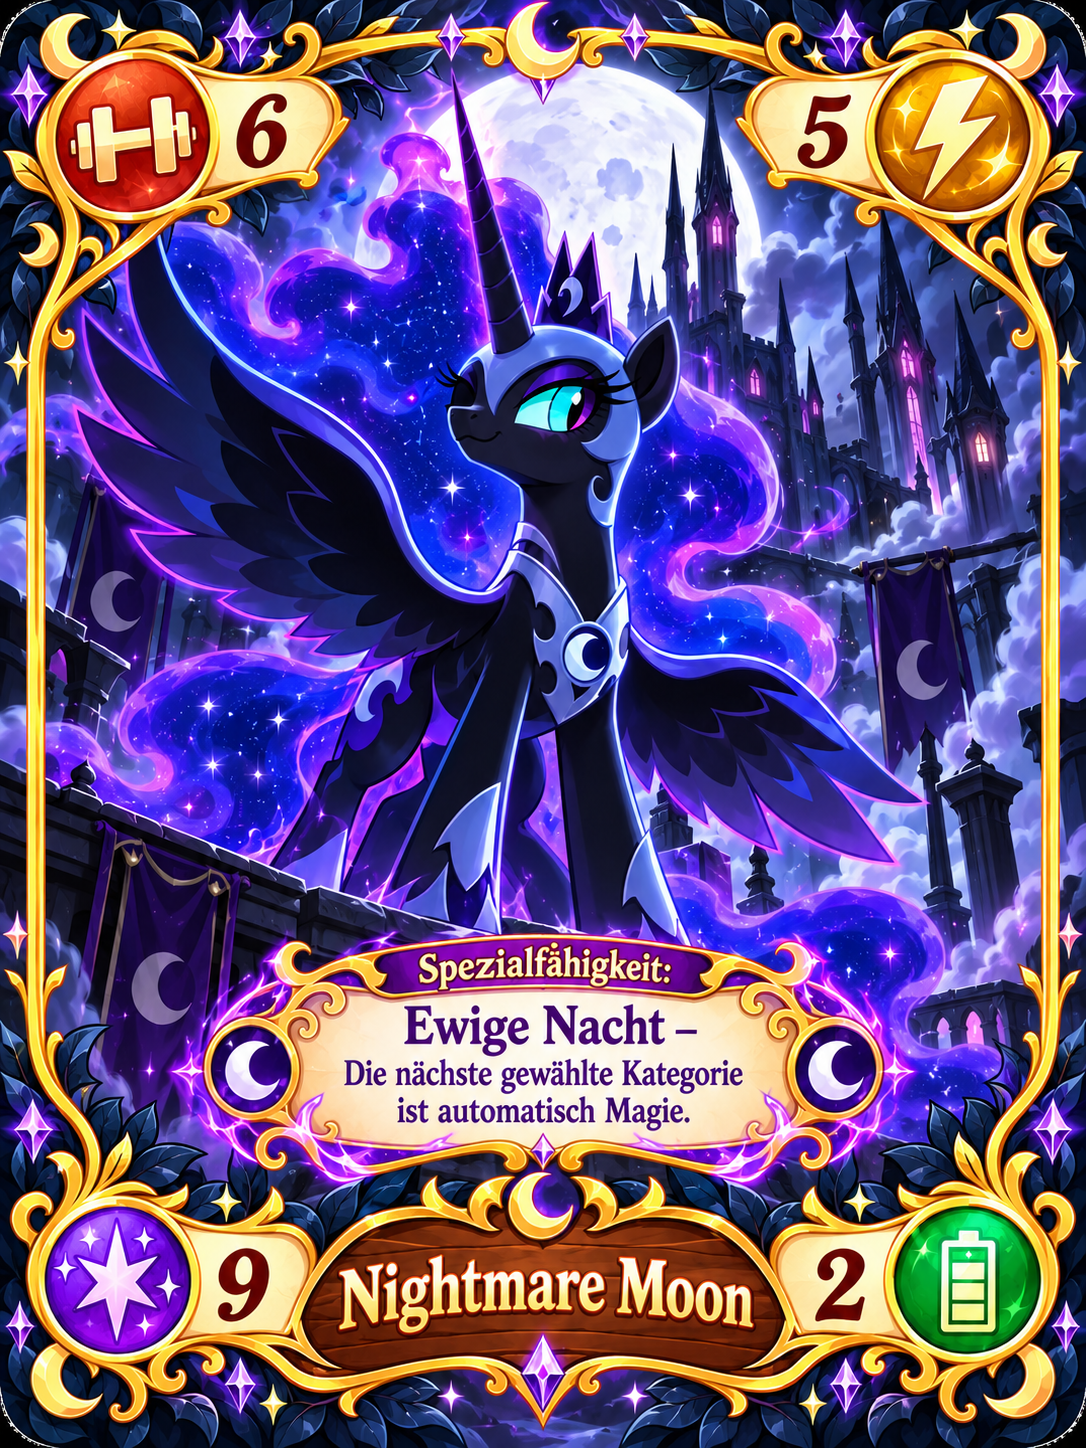
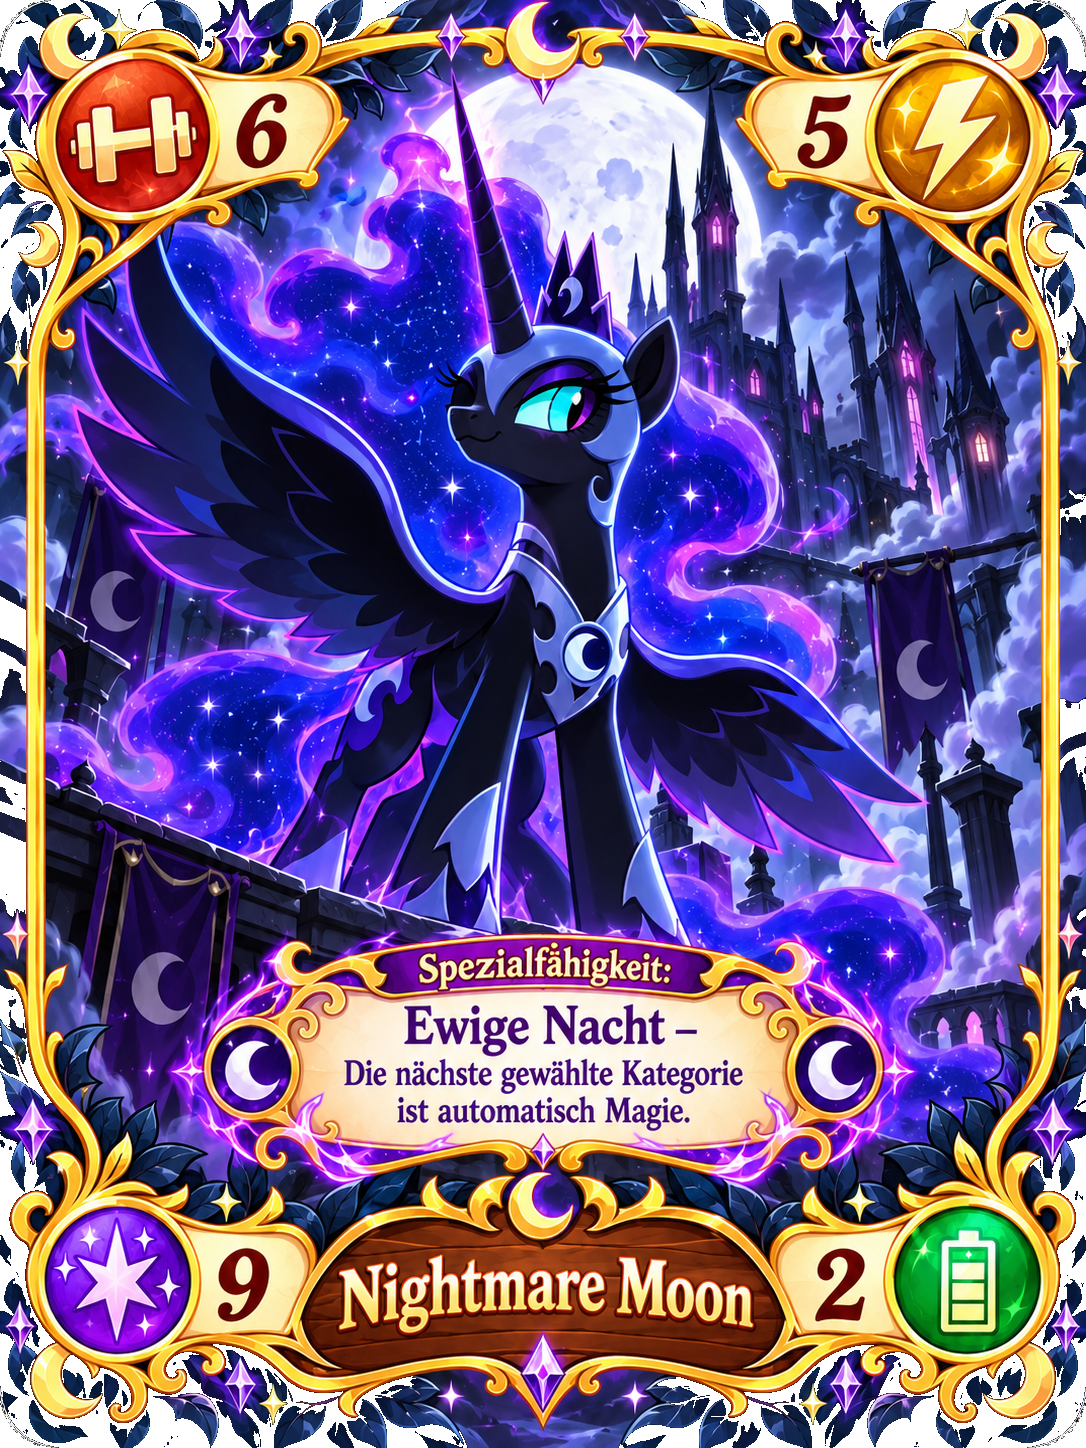
Add files via upload

diff --git a/public/index.html b/public/index.html
@@ -209,7 +209,7 @@
           <div class="tutorial-picture tutorial-decks-picture">
             <div class="tutorial-deck-card normal"><img src="/assets/card_back.webp" alt="Normaler Kartenstapel"><strong>Normaler Stapel</strong><small>Charakterkarten · automatische Auffüllung</small></div>
             <span class="tutorial-deck-plus">+</span>
-            <div class="tutorial-deck-card gold"><img src="/assets/special_back_gold.png" alt="Goldener Kartenstapel"><strong>Goldstapel</strong><small>Spezialkarten + Artefakte · nur Rundensieger zieht</small></div>
+            <div class="tutorial-deck-card gold"><img src="/assets/special_back_gold.png" alt="Goldener Kartenstapel"><strong>Goldstapel</strong><small>Sieger zieht 2 · behält 1 · Artefakte sind selten</small></div>
           </div>
         </article>
 
@@ -241,7 +241,7 @@
         <article class="tutorial-step" data-step="4">
           <div class="tutorial-copy">
             <h4>5. Der Rundensieg</h4>
-            <p>Der Gewinner zieht zusätzlich <strong>1 Karte vom goldenen Stapel</strong>. Das kann eine Spezialkarte oder eines der drei Artefakte sein. Doppelte normale und Spezialkarten sind ausdrücklich möglich.</p>
+            <p>Der Gewinner zieht <strong>2 Karten vom Goldstapel und behält 1 davon</strong>. Meist sind es Spezialkarten; Artefakte sind deutlich seltener. Nach einem gefundenen Artefakt ist die nächste Goldauswahl garantiert artefaktfrei. Die drei Artefakte haben <strong>keine feste Reihenfolge</strong> – auch Star Swirls Tagebuch kann das erste gefundene Artefakt sein. Doppelte normale und Spezialkarten sind ausdrücklich möglich.</p>
           </div>
           <div class="tutorial-picture tie-picture">
             <div class="tutorial-die">⚄</div><div class="tutorial-die second">⚂</div>

diff --git a/public/style.css b/public/style.css
@@ -3263,3 +3263,27 @@ body:has(#game .hand:not(.large-hand)) .arena{padding-bottom:230px!important;}
   .battle-crystal-wrap{width:220px;height:285px}
   .battle-crystal{width:155px;height:240px}
 }
+
+
+/* ============================================================
+   KARTEN-OPTIK: KEINE KÜNSTLICHEN SCHWARZEN RAHMEN
+   ============================================================ */
+#game .hand-card,
+#game .hand-card.special,
+#game .played-card,
+.card-inspect-face{
+  background:transparent!important;
+}
+#game .hand-card>img,
+#game .played-card img,
+.card-inspect-face img,
+.reward-choice-card img{
+  background:transparent!important;
+  object-fit:contain!important;
+}
+#game .hand-card>img{
+  clip-path:inset(0 round 10px);
+}
+#game .hand-card.special>img{
+  filter:none!important;
+}
